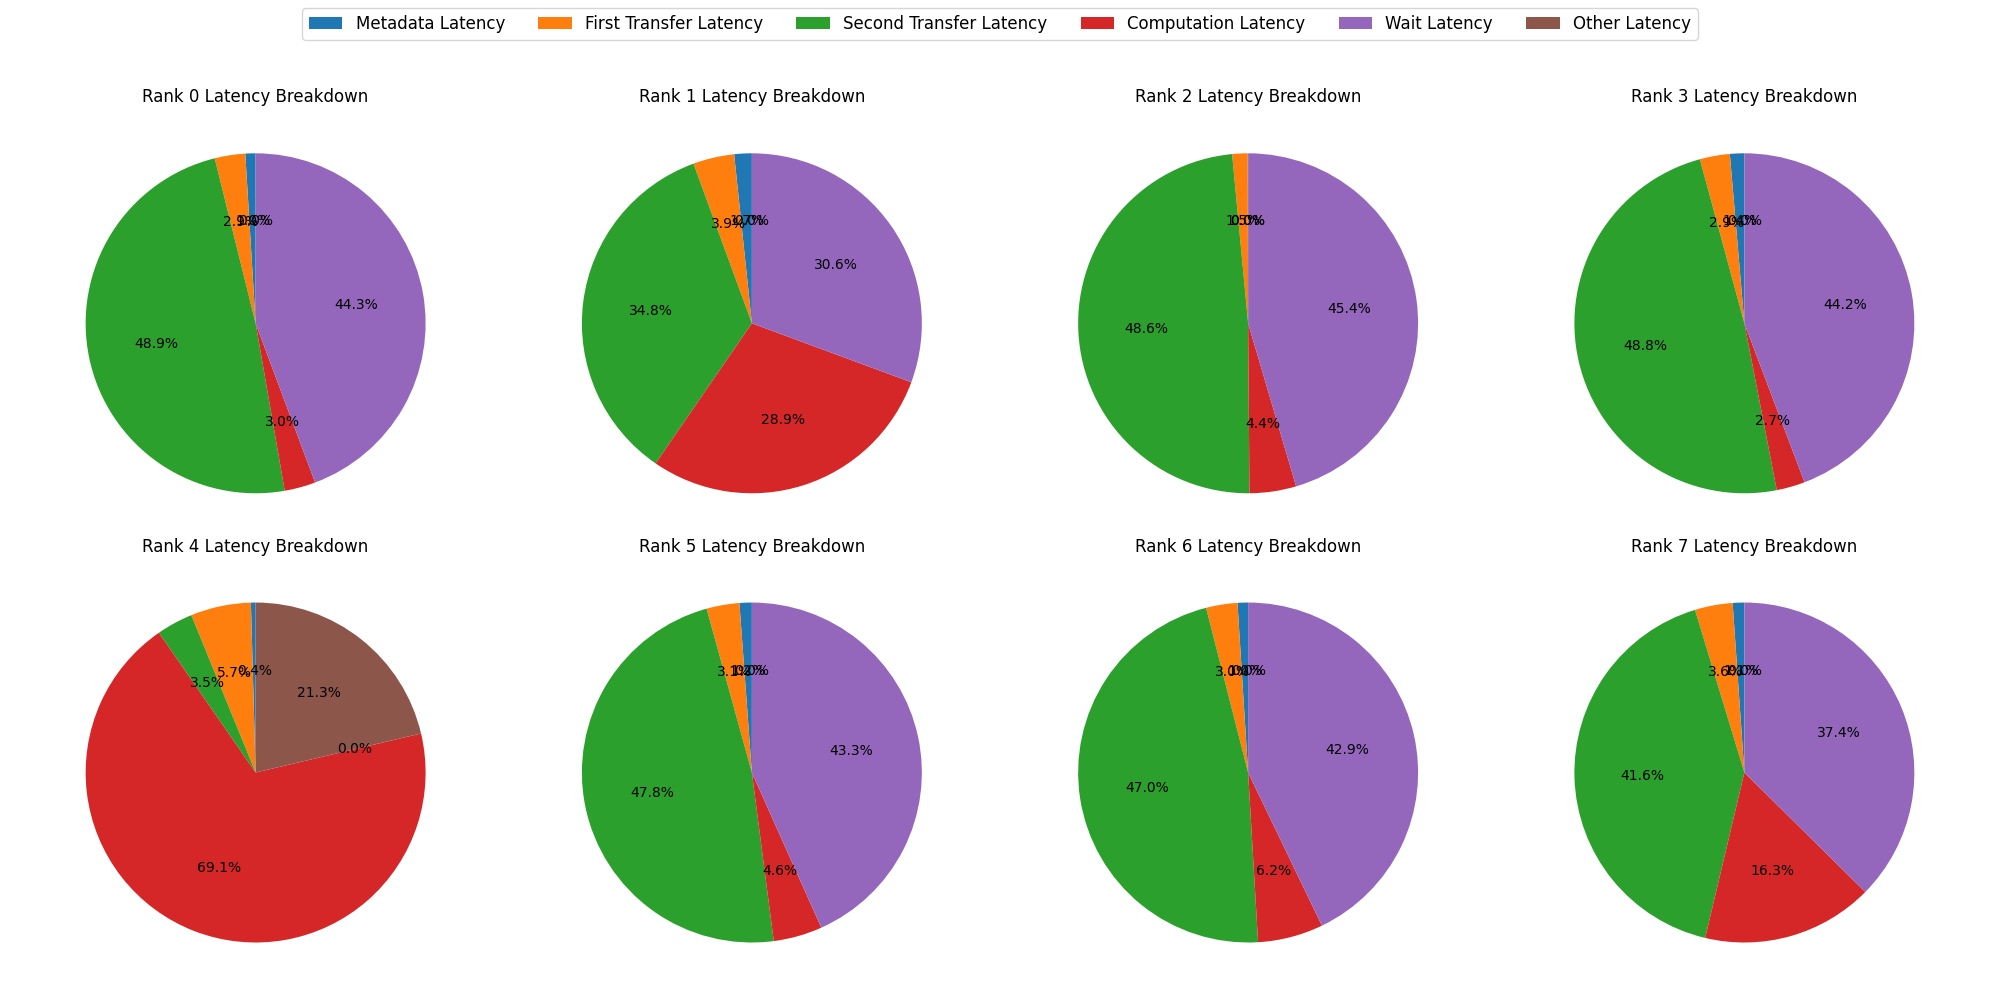
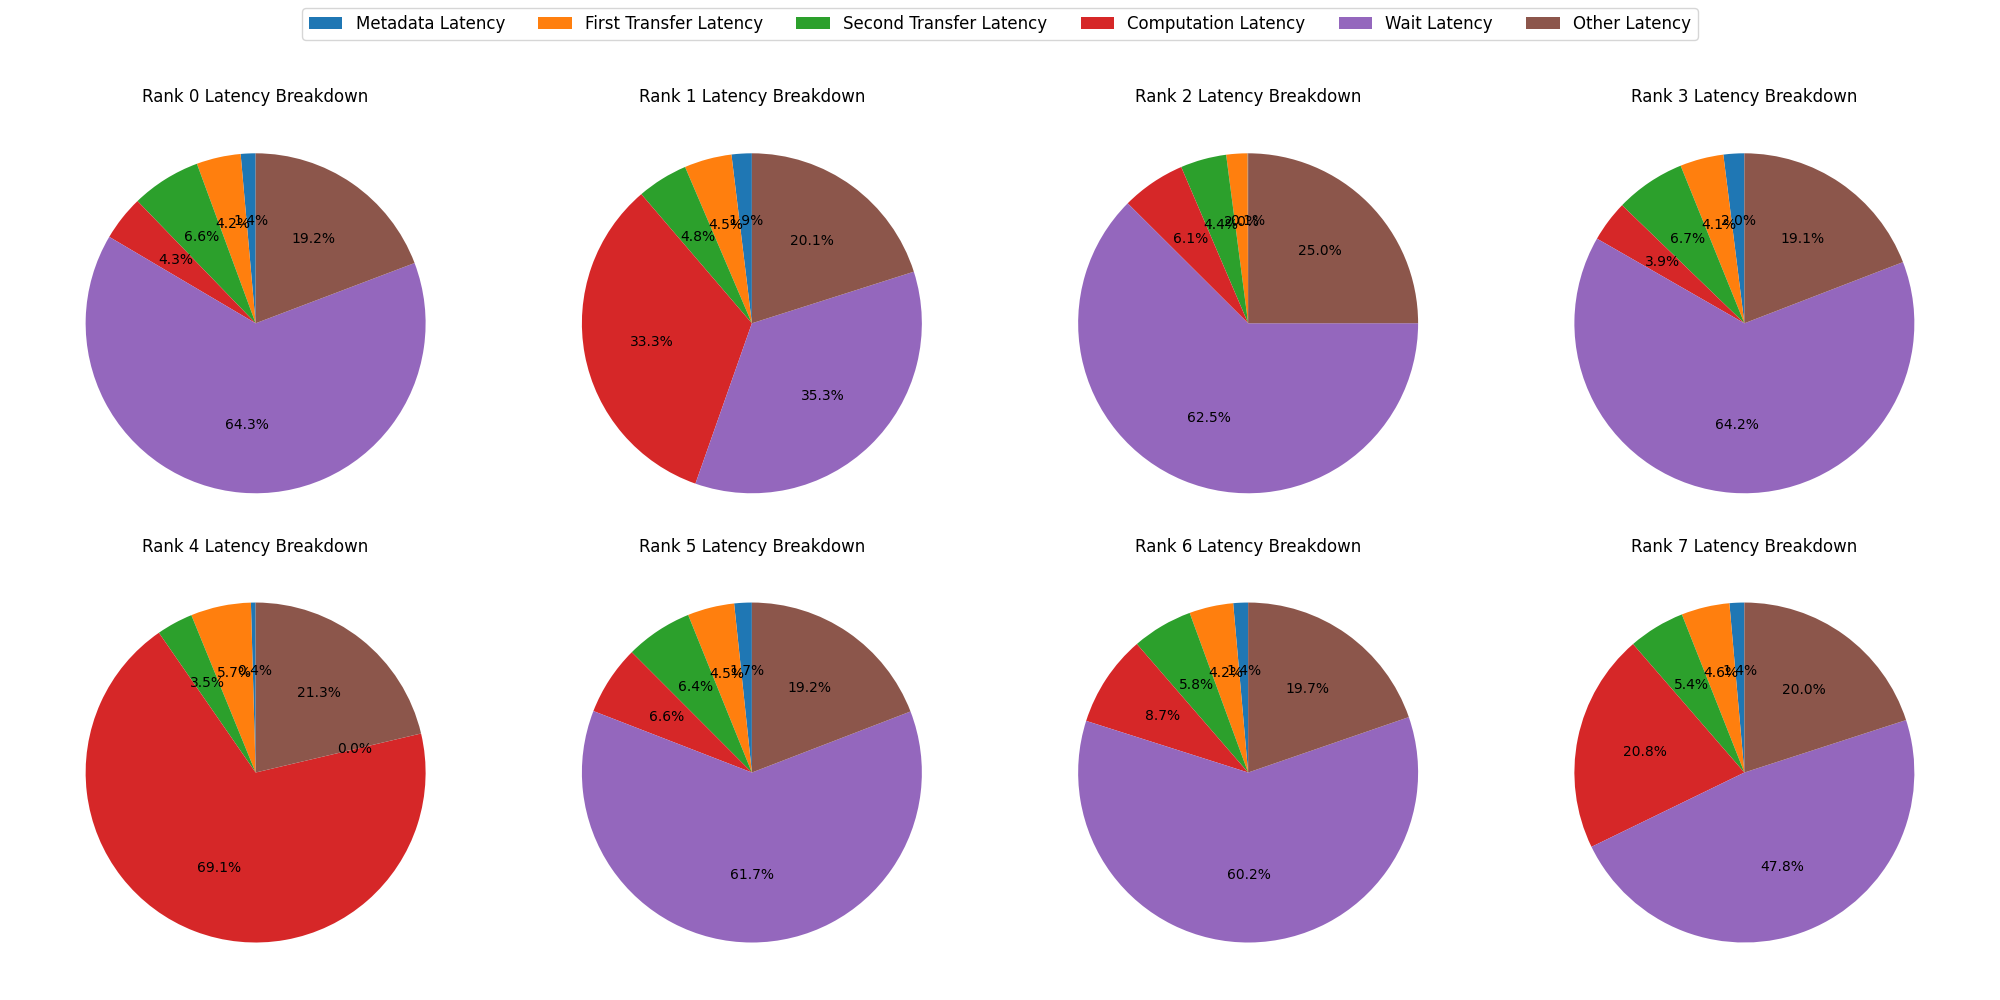
Remove excess synchs

diff --git a/src/harmonymoe/moe_layer.py b/src/harmonymoe/moe_layer.py
@@ -135,7 +135,6 @@ class MoELayer(nn.Module):
         self.start_metadata.record()
         dist.all_to_all_single(metadata_recv, metadata_send)
         self.end_metadata.record()
-        self.end_metadata.synchronize()
         
         # Create global schedule
         schedule = self.scheduler(metadata_recv, self.expert_manager.get_cached())
@@ -154,13 +153,11 @@ class MoELayer(nn.Module):
             input_split_sizes=send_splits,
         )
         self.end_first_transfer.record()
-        self.end_first_transfer.synchronize()
 
         expert_tokens = self.scheduler.group_experts(schedule, tokens_recv)
         self.start_computation.record()
         expert_tokens = self.expert_manager(expert_tokens, schedule=schedule)
         self.end_computation.record()
-        self.end_computation.synchronize()
         tokens_recv = self.scheduler.ungroup_experts(schedule, expert_tokens, tokens_recv.shape[0])
 
         self.start_second_transfer.record()
@@ -171,12 +168,11 @@ class MoELayer(nn.Module):
             input_split_sizes=recv_splits
         )
         self.end_second_transfer.record()
-        self.end_second_transfer.synchronize()
 
         hidden_states = self.scheduler.gather_tokens(schedule, tokens_send, hidden_states, router_mask)
 
         self.end_pass.record()
-        self.end_pass.synchronize()
+        self.end_pass.synchronize() # Will only have a single synchronize on the final event
         # Collect data
         self.latencies.append(self.start_pass.elapsed_time(self.end_pass))
         self.metadata_latencies.append(self.start_metadata.elapsed_time(self.end_metadata))
